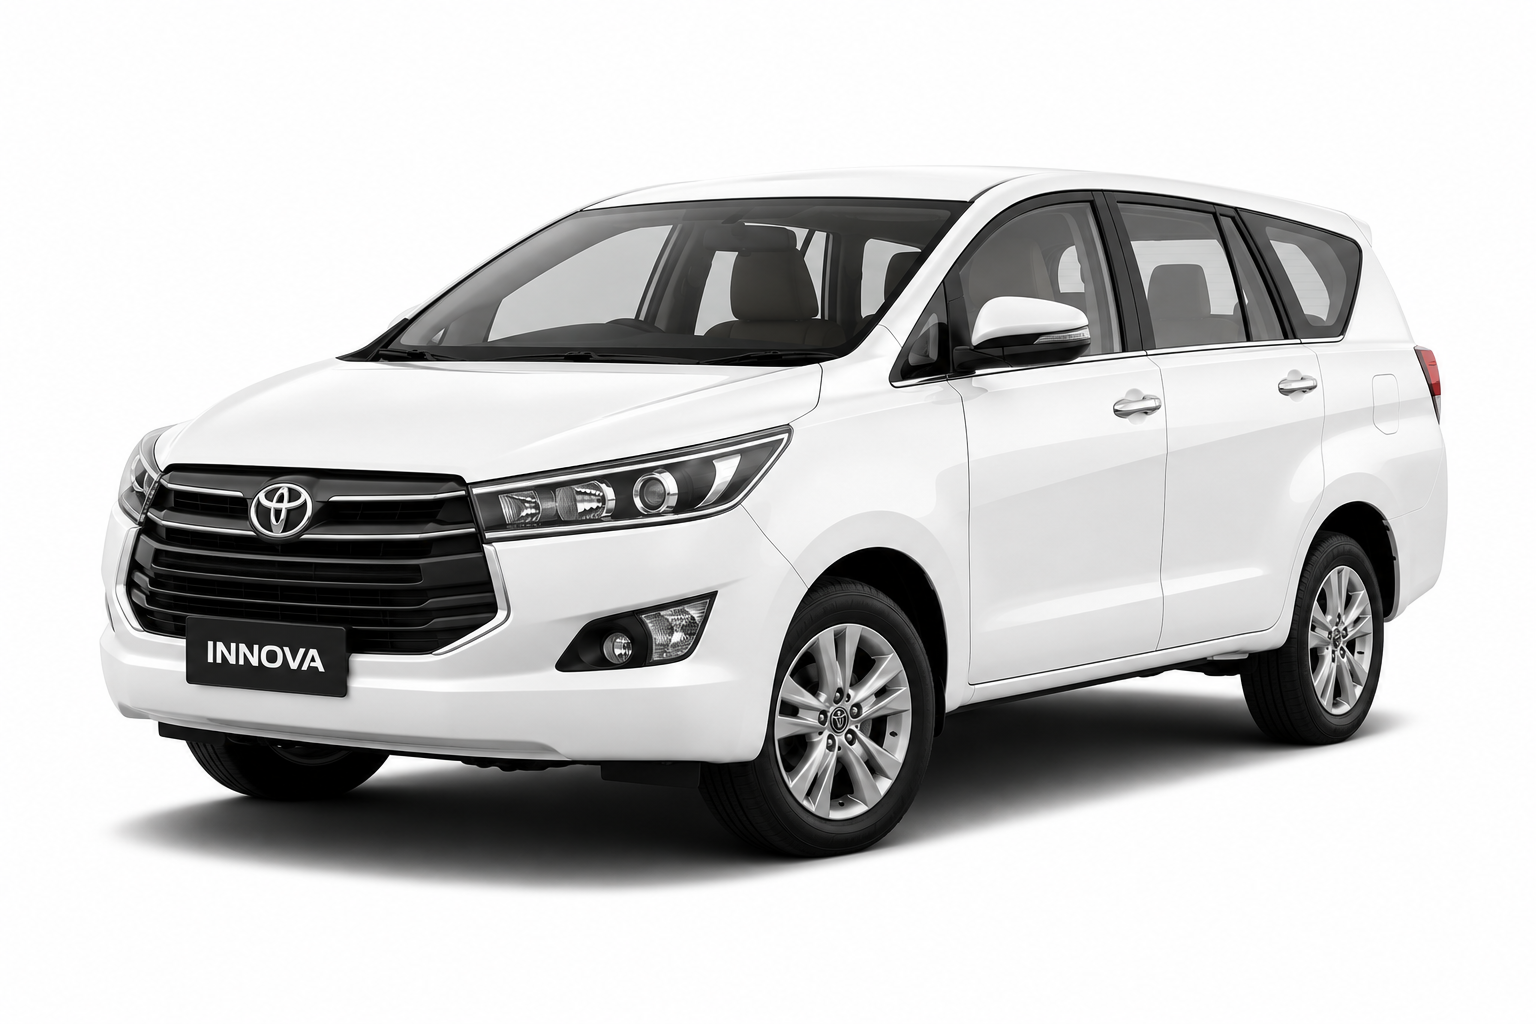
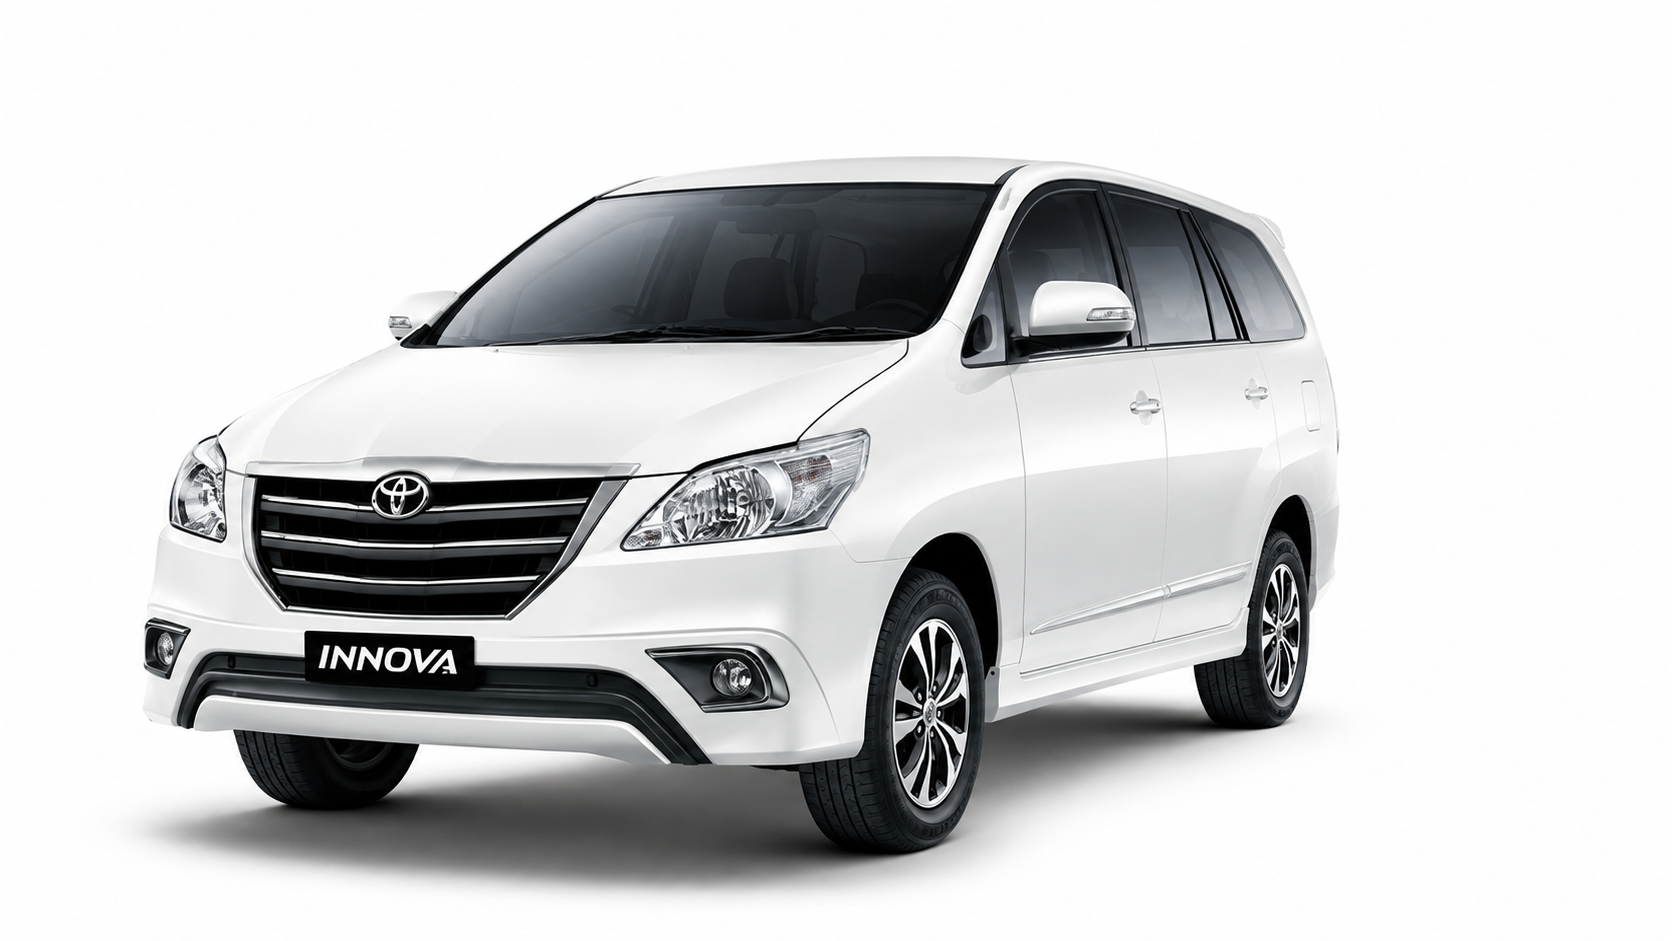
Make fleet cards clickable, fix booking modal on mobile, update Innova photo
- Link "Our Fleet" marque cards on the About page to their /cars/[slug] page
- Cap the booking modal's height and keep its close button reachable on
  mobile, with tighter mobile spacing so the form fits without cutting off
- Swap in an updated Innova photo
- Fix coverage map pin alignment so every stop's visual center stays locked
  to the connecting line regardless of ring count

diff --git a/src/features/cars/BookingModal.tsx b/src/features/cars/BookingModal.tsx
@@ -54,7 +54,7 @@ const timeOptions = Array.from({ length: 24 }, (_, hour24) => {
 /* ------------------------------------------------------------------ */
 
 const inputBase =
-  "w-full rounded-xl border border-zinc-200 bg-white py-3 pl-11 pr-4 text-sm text-[#132238] outline-none transition-colors placeholder:text-zinc-400 focus:border-primary";
+  "w-full rounded-xl border border-zinc-200 bg-white py-2.5 pl-11 pr-4 text-sm text-[#132238] outline-none transition-colors placeholder:text-zinc-400 focus:border-primary sm:py-3";
 
 function Field({
   label,
@@ -74,7 +74,7 @@ function Field({
       <label className="text-xs font-semibold uppercase tracking-[0.14em] text-zinc-400">
         {label}
       </label>
-      <div className="relative mt-2">
+      <div className="relative mt-1.5 sm:mt-2">
         <span
           className={`pointer-events-none absolute left-3.5 text-zinc-400 ${
             iconAlign === "top" ? "top-3.5" : "top-1/2 -translate-y-1/2"
@@ -196,25 +196,25 @@ export default function BookingModal({
     >
       <div
         onClick={(e) => e.stopPropagation()}
-        className={`relative my-8 w-full max-w-xl overflow-hidden rounded-[2rem] border border-zinc-200/70 bg-white shadow-premium ${
+        className={`relative flex my-8 max-h-[calc(100vh-4rem)] w-full max-w-xl flex-col overflow-hidden rounded-[2rem] border border-zinc-200/70 bg-white shadow-premium sm:max-h-none ${
           closing ? "animate-modal-panel-out" : "animate-modal-panel-in"
         }`}
       >
         {/* top accent */}
-        <span className="absolute inset-x-0 top-0 h-1.5 bg-linear-to-r from-primary/40 via-primary to-primary/40" />
+        <span className="absolute inset-x-0 top-0 z-10 h-1.5 bg-linear-to-r from-primary/40 via-primary to-primary/40" />
 
         <button
           type="button"
           onClick={handleClose}
           aria-label="Close"
-          className="absolute right-5 top-6 flex h-9 w-9 items-center justify-center rounded-full text-zinc-400 transition-colors hover:bg-zinc-100 hover:text-[#132238]"
+          className="absolute right-5 top-6 z-10 flex h-9 w-9 items-center justify-center rounded-full bg-white text-zinc-400 shadow-sm transition-colors hover:bg-zinc-100 hover:text-[#132238]"
         >
           <X className="h-5 w-5" />
         </button>
 
-        <div className="px-7 pb-8 pt-9 sm:px-9 sm:pb-9">
+        <div className="overflow-y-auto px-5 pb-5 pt-8 sm:px-9 sm:pb-9 sm:pt-9">
           <div className="flex items-center gap-2.5">
-            <span className="flex h-10 w-10 shrink-0 items-center justify-center rounded-xl bg-primary/10 text-primary">
+            <span className="flex h-9 w-9 shrink-0 items-center justify-center rounded-xl bg-primary/10 text-primary sm:h-10 sm:w-10">
               <Car className="h-5 w-5" strokeWidth={1.9} />
             </span>
             <div className="min-w-0">
@@ -224,12 +224,12 @@ export default function BookingModal({
               <h2 className="truncate text-lg font-bold text-[#132238]">{car}</h2>
             </div>
           </div>
-          <p className="mt-4 text-sm leading-relaxed text-zinc-500">
+          <p className="mt-2 text-sm leading-relaxed text-zinc-500 sm:mt-4">
             Fill in your trip details, we&apos;ll confirm availability on
             WhatsApp within minutes.
           </p>
 
-          <form onSubmit={handleSubmit} className="mt-7 grid grid-cols-1 gap-5 sm:grid-cols-2">
+          <form onSubmit={handleSubmit} className="mt-4 grid grid-cols-1 gap-3 sm:mt-7 sm:grid-cols-2 sm:gap-5">
             <Field label="Your name" icon={<User {...iconProps} />}>
               <input
                 required

diff --git a/src/features/services/CoverageRoute.tsx b/src/features/services/CoverageRoute.tsx
@@ -63,15 +63,28 @@ export default function CoverageRoute({ stops }: { stops: CoverageStop[] }) {
     return () => ctx.revert();
   }, [stops.length]);
 
+  // Pin size grows with each stop (bigger reach = bigger ring cluster). The
+  // desktop connector line stays fixed, so every pin reserves a box matching
+  // the largest stop's footprint and centers within it — keeping every pin's
+  // visual center locked to the line regardless of its own ring count.
+  const maxRingCount = stops.length;
+  const maxCoreSize = 32 + (stops.length - 1) * 6;
+  const maxBoxSize = maxCoreSize + maxRingCount * 18;
+  const pinCenterY = maxBoxSize / 2;
+
   return (
     <div ref={rootRef} className="relative mt-24 sm:mt-28">
       {/* connecting route (desktop) */}
-      <div className="pointer-events-none absolute inset-x-[18%] top-4 hidden h-px overflow-hidden sm:block">
+      <div
+        className="pointer-events-none absolute inset-x-[18%] hidden h-px overflow-hidden sm:block"
+        style={{ top: pinCenterY }}
+      >
         <div className="h-full w-full border-t-2 border-dashed border-zinc-200" />
       </div>
       <div
         ref={lineRef}
-        className="pointer-events-none absolute inset-x-[18%] top-4 hidden h-px origin-left bg-linear-to-r from-primary/70 via-primary to-primary/70 sm:block"
+        className="pointer-events-none absolute inset-x-[18%] hidden h-px origin-left bg-linear-to-r from-primary/70 via-primary to-primary/70 sm:block"
+        style={{ top: pinCenterY }}
       />
 
       {/* connecting route (mobile, vertical) */}
@@ -94,11 +107,15 @@ export default function CoverageRoute({ stops }: { stops: CoverageStop[] }) {
                 Fixed-width outer slot keeps the pin's visual center locked to
                 the connecting line on mobile even as the rings grow. */}
             <div
-              className="flex shrink-0 items-center justify-center sm:contents"
-              style={{ width: 32, height: boxSize }}
+              className="flex shrink-0 items-center justify-center sm:mb-7 sm:h-(--pin-max) sm:w-(--pin-max)"
+              style={{
+                width: 32,
+                height: boxSize,
+                ["--pin-max" as string]: `${maxBoxSize}px`,
+              }}
             >
               <span
-                className="relative z-10 flex items-center justify-center sm:mb-7"
+                className="relative z-10 flex items-center justify-center"
                 style={{ height: boxSize, width: boxSize }}
               >
                 {Array.from({ length: ringCount }).map((_, r) => (

diff --git a/src/features/about/AboutPage.tsx b/src/features/about/AboutPage.tsx
@@ -4,7 +4,7 @@ import type { ReactNode } from "react";
 import { BadgeIndianRupee, Clock, ShieldCheck, Sparkles } from "lucide-react";
 
 import { siteConfig } from "@/lib/site";
-import { luxuryBrands, paint, VehicleArt } from "@/features/cars/shared";
+import { luxuryBrands, paint, slugify, VehicleArt } from "@/features/cars/shared";
 import ValuesGrid from "@/features/about/ValuesGrid";
 
 const brandPhotos: Record<string, string> = {
@@ -101,7 +101,7 @@ const values = [
   },
   {
     name: "Comfort & Class",
-    desc: "Sanitised, well-appointed interiors on every trip, from executive sedans to our ultra-luxury marques.",
+    desc: "Sanitised, well-appointed interiors on every trip, from executive sedans to our ultra-luxury cars.",
     icon: <Sparkles className="h-6 w-6" strokeWidth={1.75} />,
   },
   {
@@ -333,10 +333,10 @@ export default function AboutPage() {
           <div className="max-w-2xl">
             <Eyebrow>Our fleet</Eyebrow>
             <h2 className={`mt-3 text-3xl font-bold tracking-tight sm:text-4xl ${INK}`}>
-              From executive sedans to the ultra-luxury marques.
+              From executive sedans to the ultra-luxury cars.
             </h2>
             <p className="mt-2 text-zinc-500">
-              Every car chauffeur-driven, every marque maintained to the same
+              Every car chauffeur-driven, every car maintained to the same
               standard.
             </p>
           </div>
@@ -354,8 +354,9 @@ export default function AboutPage() {
             const p = paint(i);
             const photo = brandPhotos[m.brand];
             return (
-              <div
+              <Link
                 key={m.brand}
+                href={`/cars/${slugify(m.brand)}`}
                 className="hover-glow reveal group relative flex flex-col items-center overflow-hidden rounded-3xl border border-zinc-200/70 bg-white p-6 shadow-premium"
               >
                 <div className="relative flex h-16 w-full items-center justify-center overflow-hidden">
@@ -374,7 +375,7 @@ export default function AboutPage() {
                 <span className="mt-1 text-xs font-semibold uppercase tracking-[0.16em] text-zinc-400 transition-colors group-hover:text-primary">
                   {m.tag}
                 </span>
-              </div>
+              </Link>
             );
           })}
         </div>
